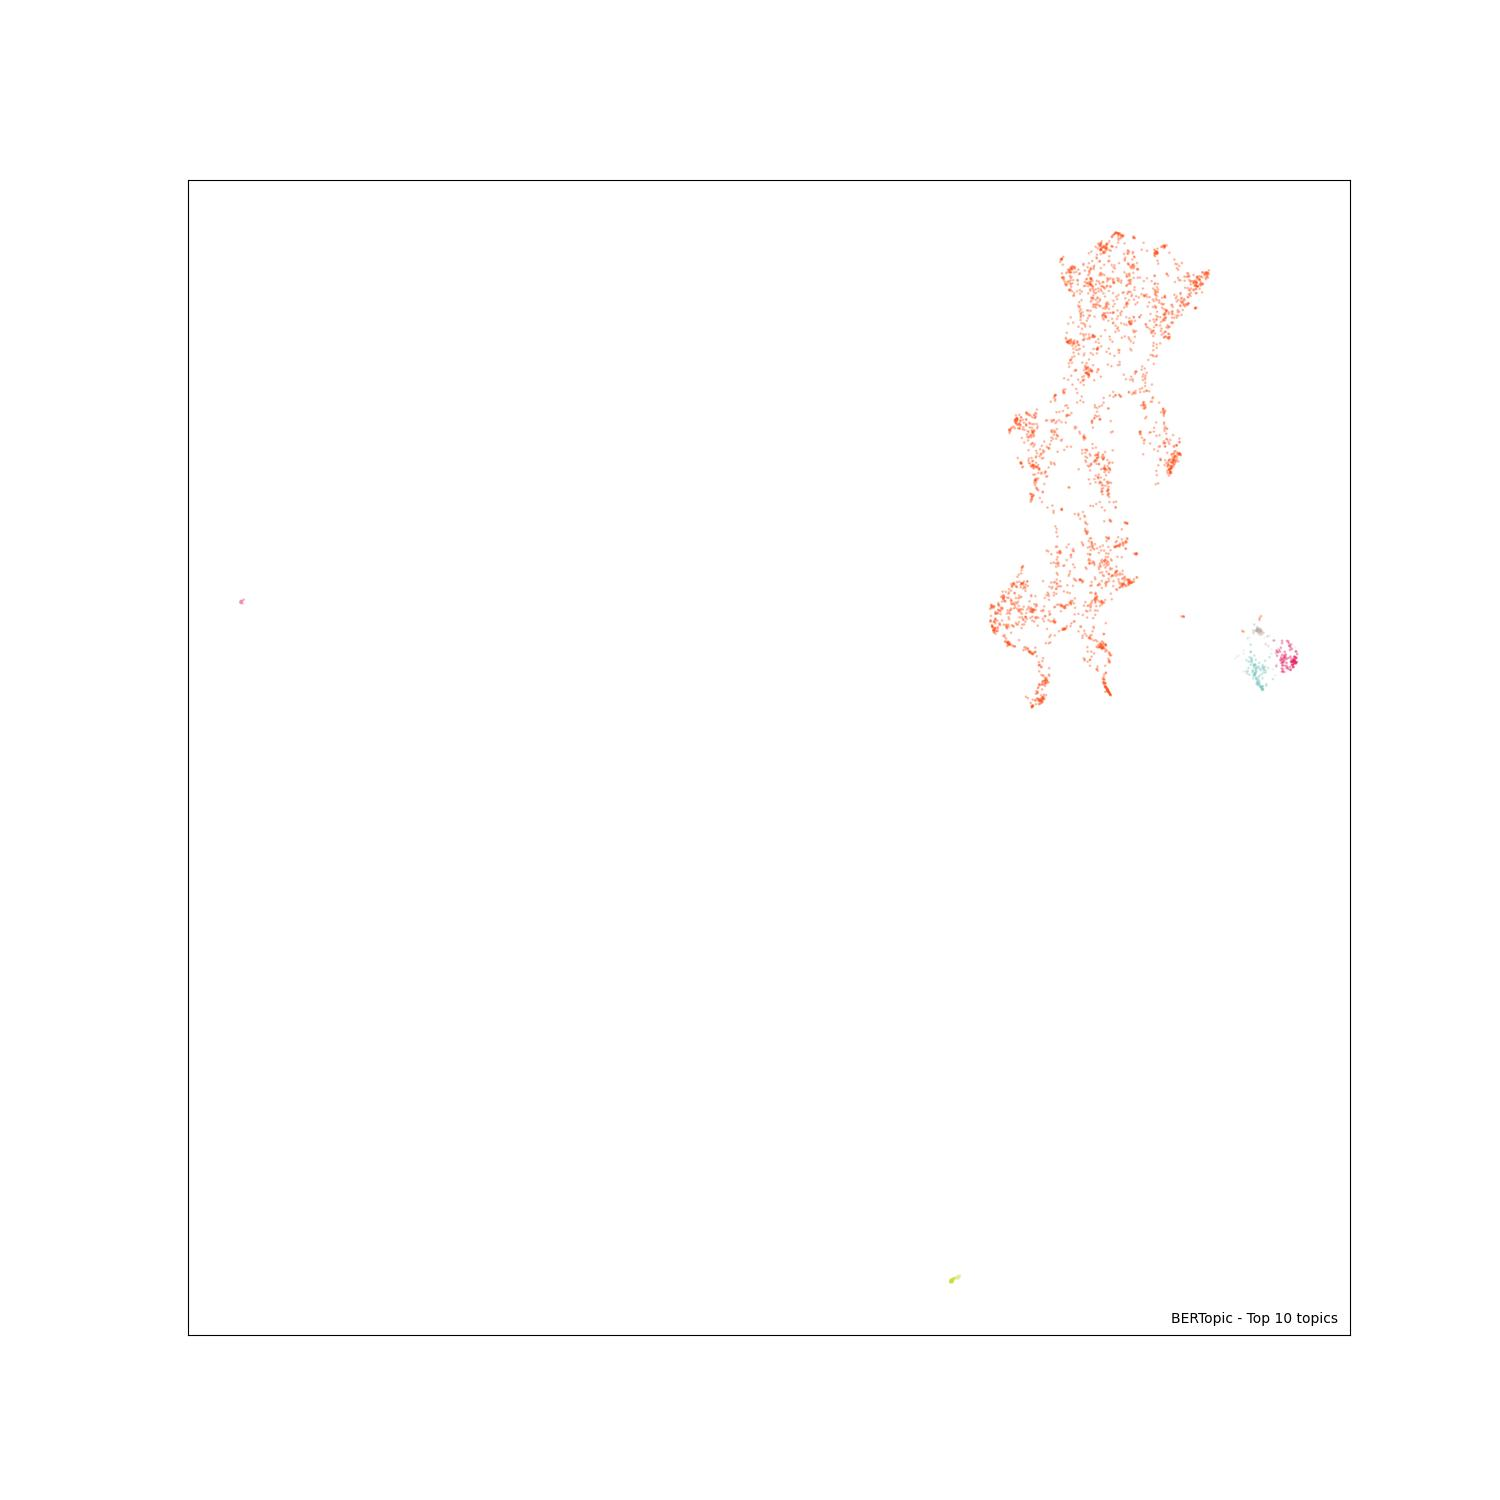
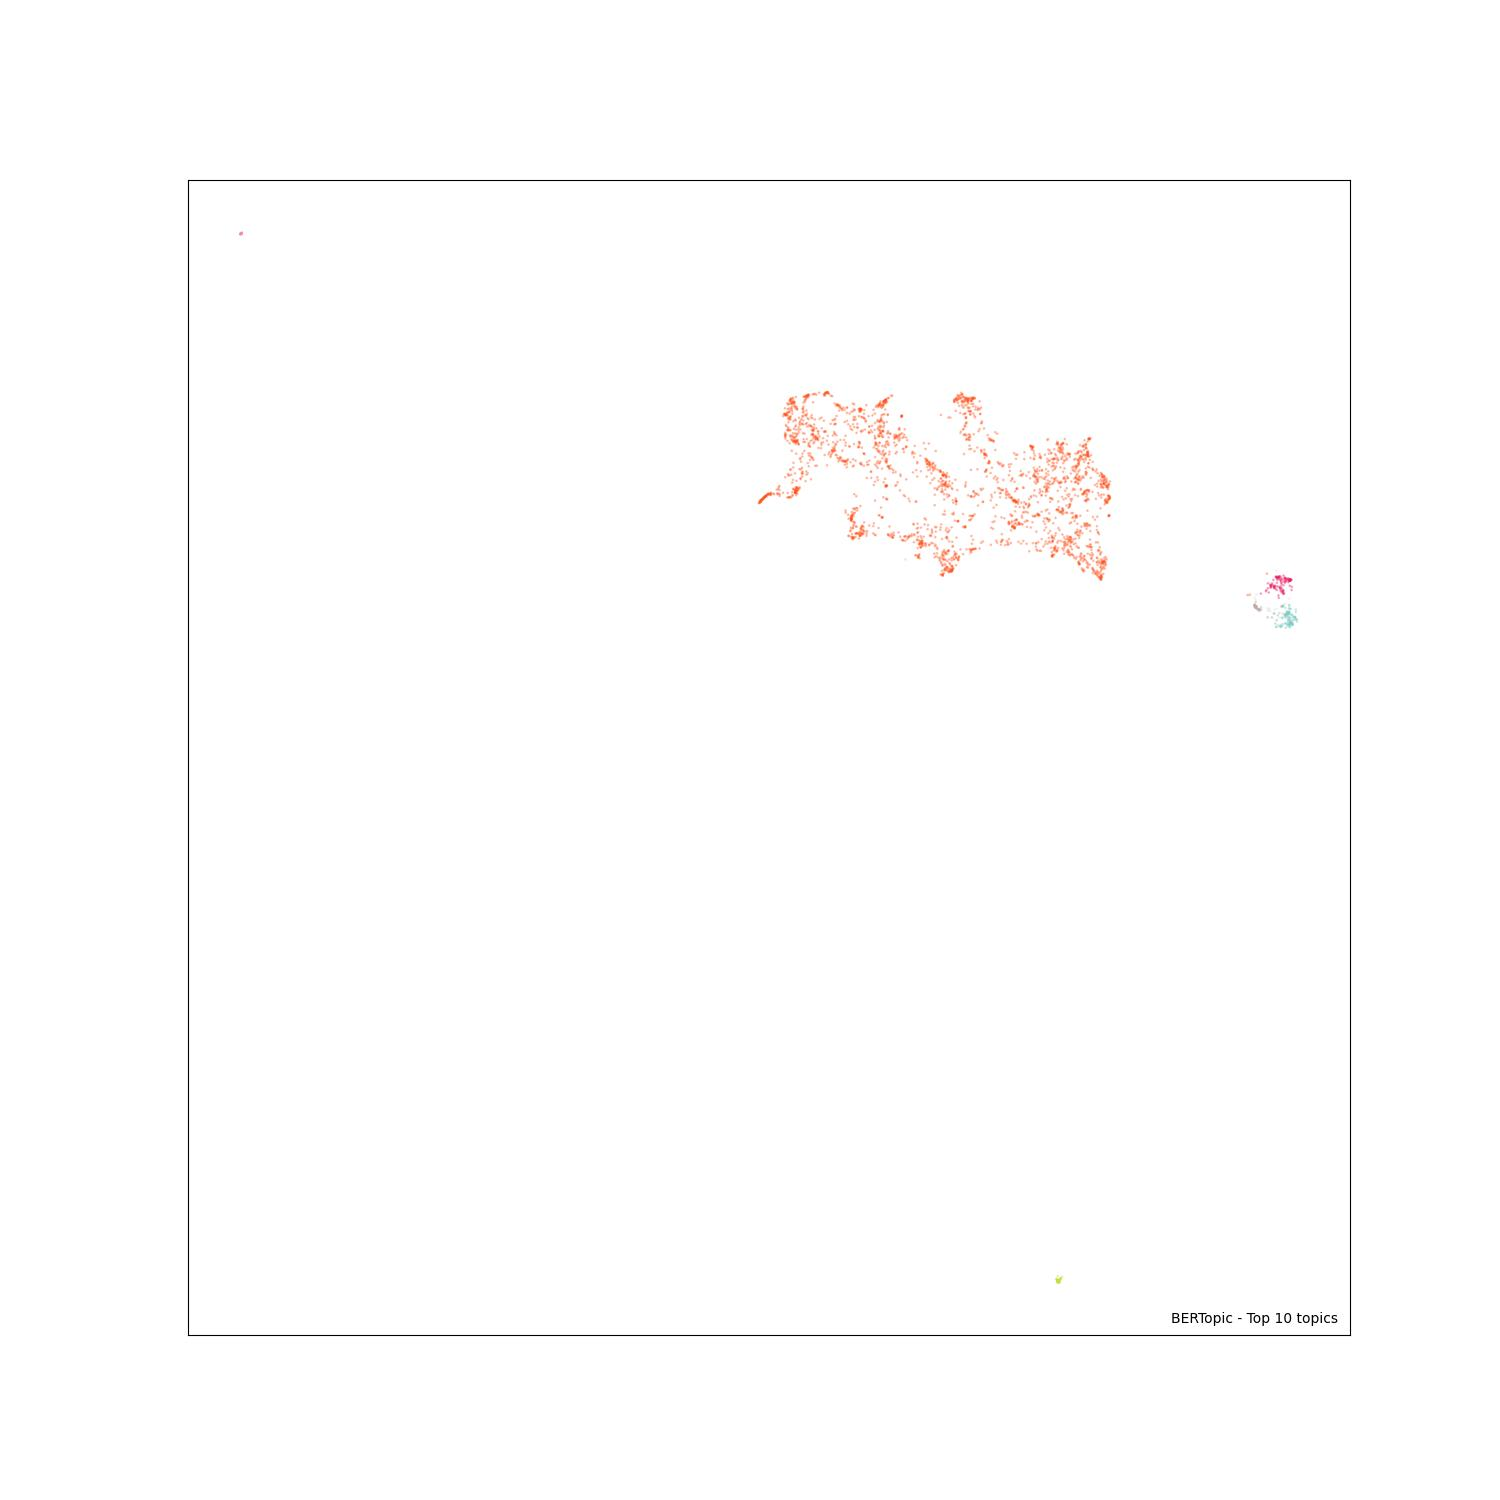
.

Changed region(s): [[0.5213, 0.1533, 0.7973, 0.46], [0.828, 0.368, 0.8587, 0.46], [0.7667, 0.276, 0.7973, 0.3067]]

diff --git a/python/train_bertopic.py b/python/train_bertopic.py
@@ -48,7 +48,7 @@ def train_bertopic_model(in_file, out_file_folder, out_file_name, min_words=5):
 
         print(">>>\t\t\tcreating and saving visualization - topic viz {}".format(datetime.datetime.now()))
         try:
-            fig = topic_model.visualize_topics()
+            fig = topic_model.visualize_topics(top_n_topics=100)
             fig.write_html(out_file_folder + "/" + out_file_name + ".viztopic.html")
         except:
             print(">>>\t\t\t\tunable to create topic viz {}".format(datetime.datetime.now()))
@@ -57,7 +57,7 @@ def train_bertopic_model(in_file, out_file_folder, out_file_name, min_words=5):
 
         print(">>>\t\t\tcreating and saving visualization - hierarchy {}".format(datetime.datetime.now()))
         try:
-            fig = topic_model.visualize_hierarchy()
+            fig = topic_model.visualize_hierarchy(top_n_topics=100)
             fig.write_html(out_file_folder + "/" + out_file_name + ".hierarchy.html")
         except:
             print(">>>\t\t\t\tunable to create hierarchy viz {}".format(datetime.datetime.now()))
